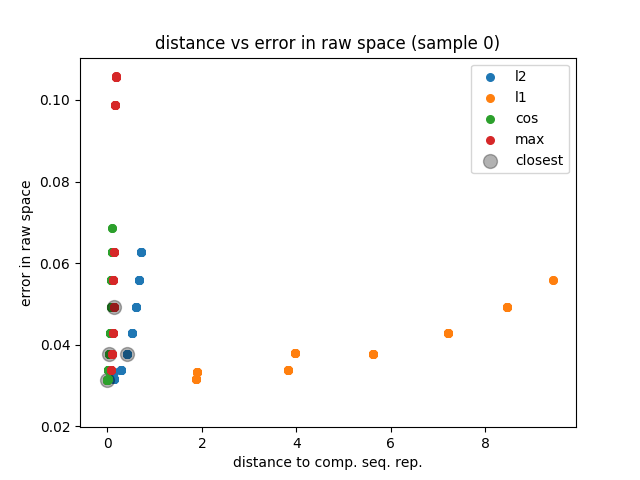
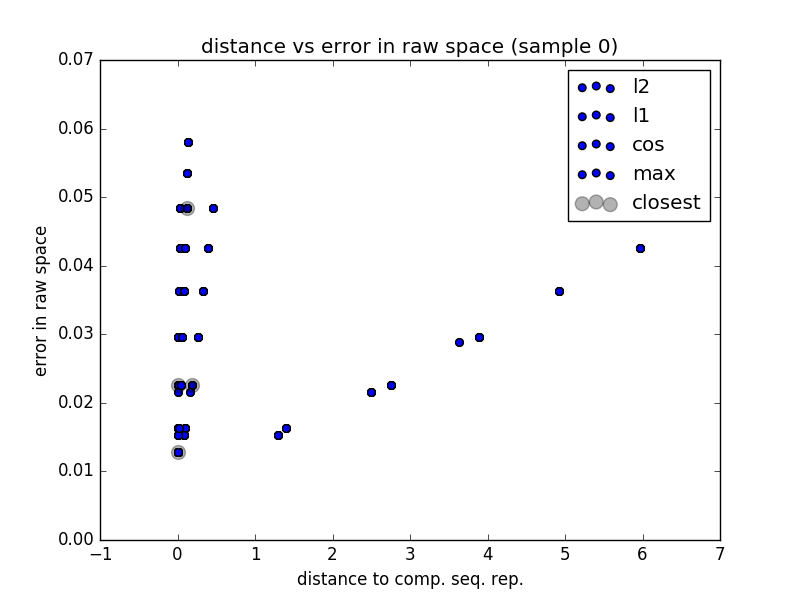
f

diff --git a/RNN/L_RNN.py b/RNN/L_RNN.py
@@ -174,10 +174,10 @@ class L_LSTM:
 		# iter1, iter2 = tee(data_iterator)
 		# metrics.validate(valid_data, self)
 
-		nn = NN.Forward_NN({'input_dim':self.latent_dim, 'output_dim':self.latent_dim, 'mode':'sample'})
-		nn.run(None)
-		metrics.plot_metrics(self, data_iterator, valid_data, nn)
-		# association_evaluation.plot_best_distance_function(self, valid_data, data_iterator)
+		#nn = NN.Forward_NN({'input_dim':self.latent_dim, 'output_dim':self.latent_dim, 'mode':'sample'})
+		#nn.run(None)
+		#metrics.plot_metrics(self, data_iterator, valid_data, nn)
+		association_evaluation.plot_best_distance_function(self, valid_data, data_iterator)
 		# association_evaluation.eval_generation(self, valid_data, data_iterator)
 		# association_evaluation.eval_center(self, valid_data, 'sitting')
 		# association_evaluation.transfer_motion(self, valid_data, 'sitting', 'walking', data_iterator)

diff --git a/RNN/utils/parser.py b/RNN/utils/parser.py
@@ -175,8 +175,8 @@ def get_parse(model_name, labels=False):
 	if args['validation_input_data']:
 		vd = None
 		if labels:
-			#vd = data_generator_random(args['input_data'], args['output_data'], args['timesteps'], 30000, 400, True, ls, ld)
-			vd = data_generator(args['validation_input_data'], args['validation_input_data'], args['timesteps'], 10000000, True, ls, ld, only_label=args['only_label'])
+			vd = data_generator_random(args['input_data'], args['output_data'], args['timesteps'], 30000, 400, True, ls, ld)
+			#vd = data_generator(args['validation_input_data'], args['validation_input_data'], args['timesteps'], 10000000, True, ls, ld, only_label=args['only_label'])
 		else:
 			vd = data_generator(args['validation_input_data'], args['validation_input_data'], args['timesteps'], 10000000, only_label=args['only_label'])
 		for v, _ in vd:
